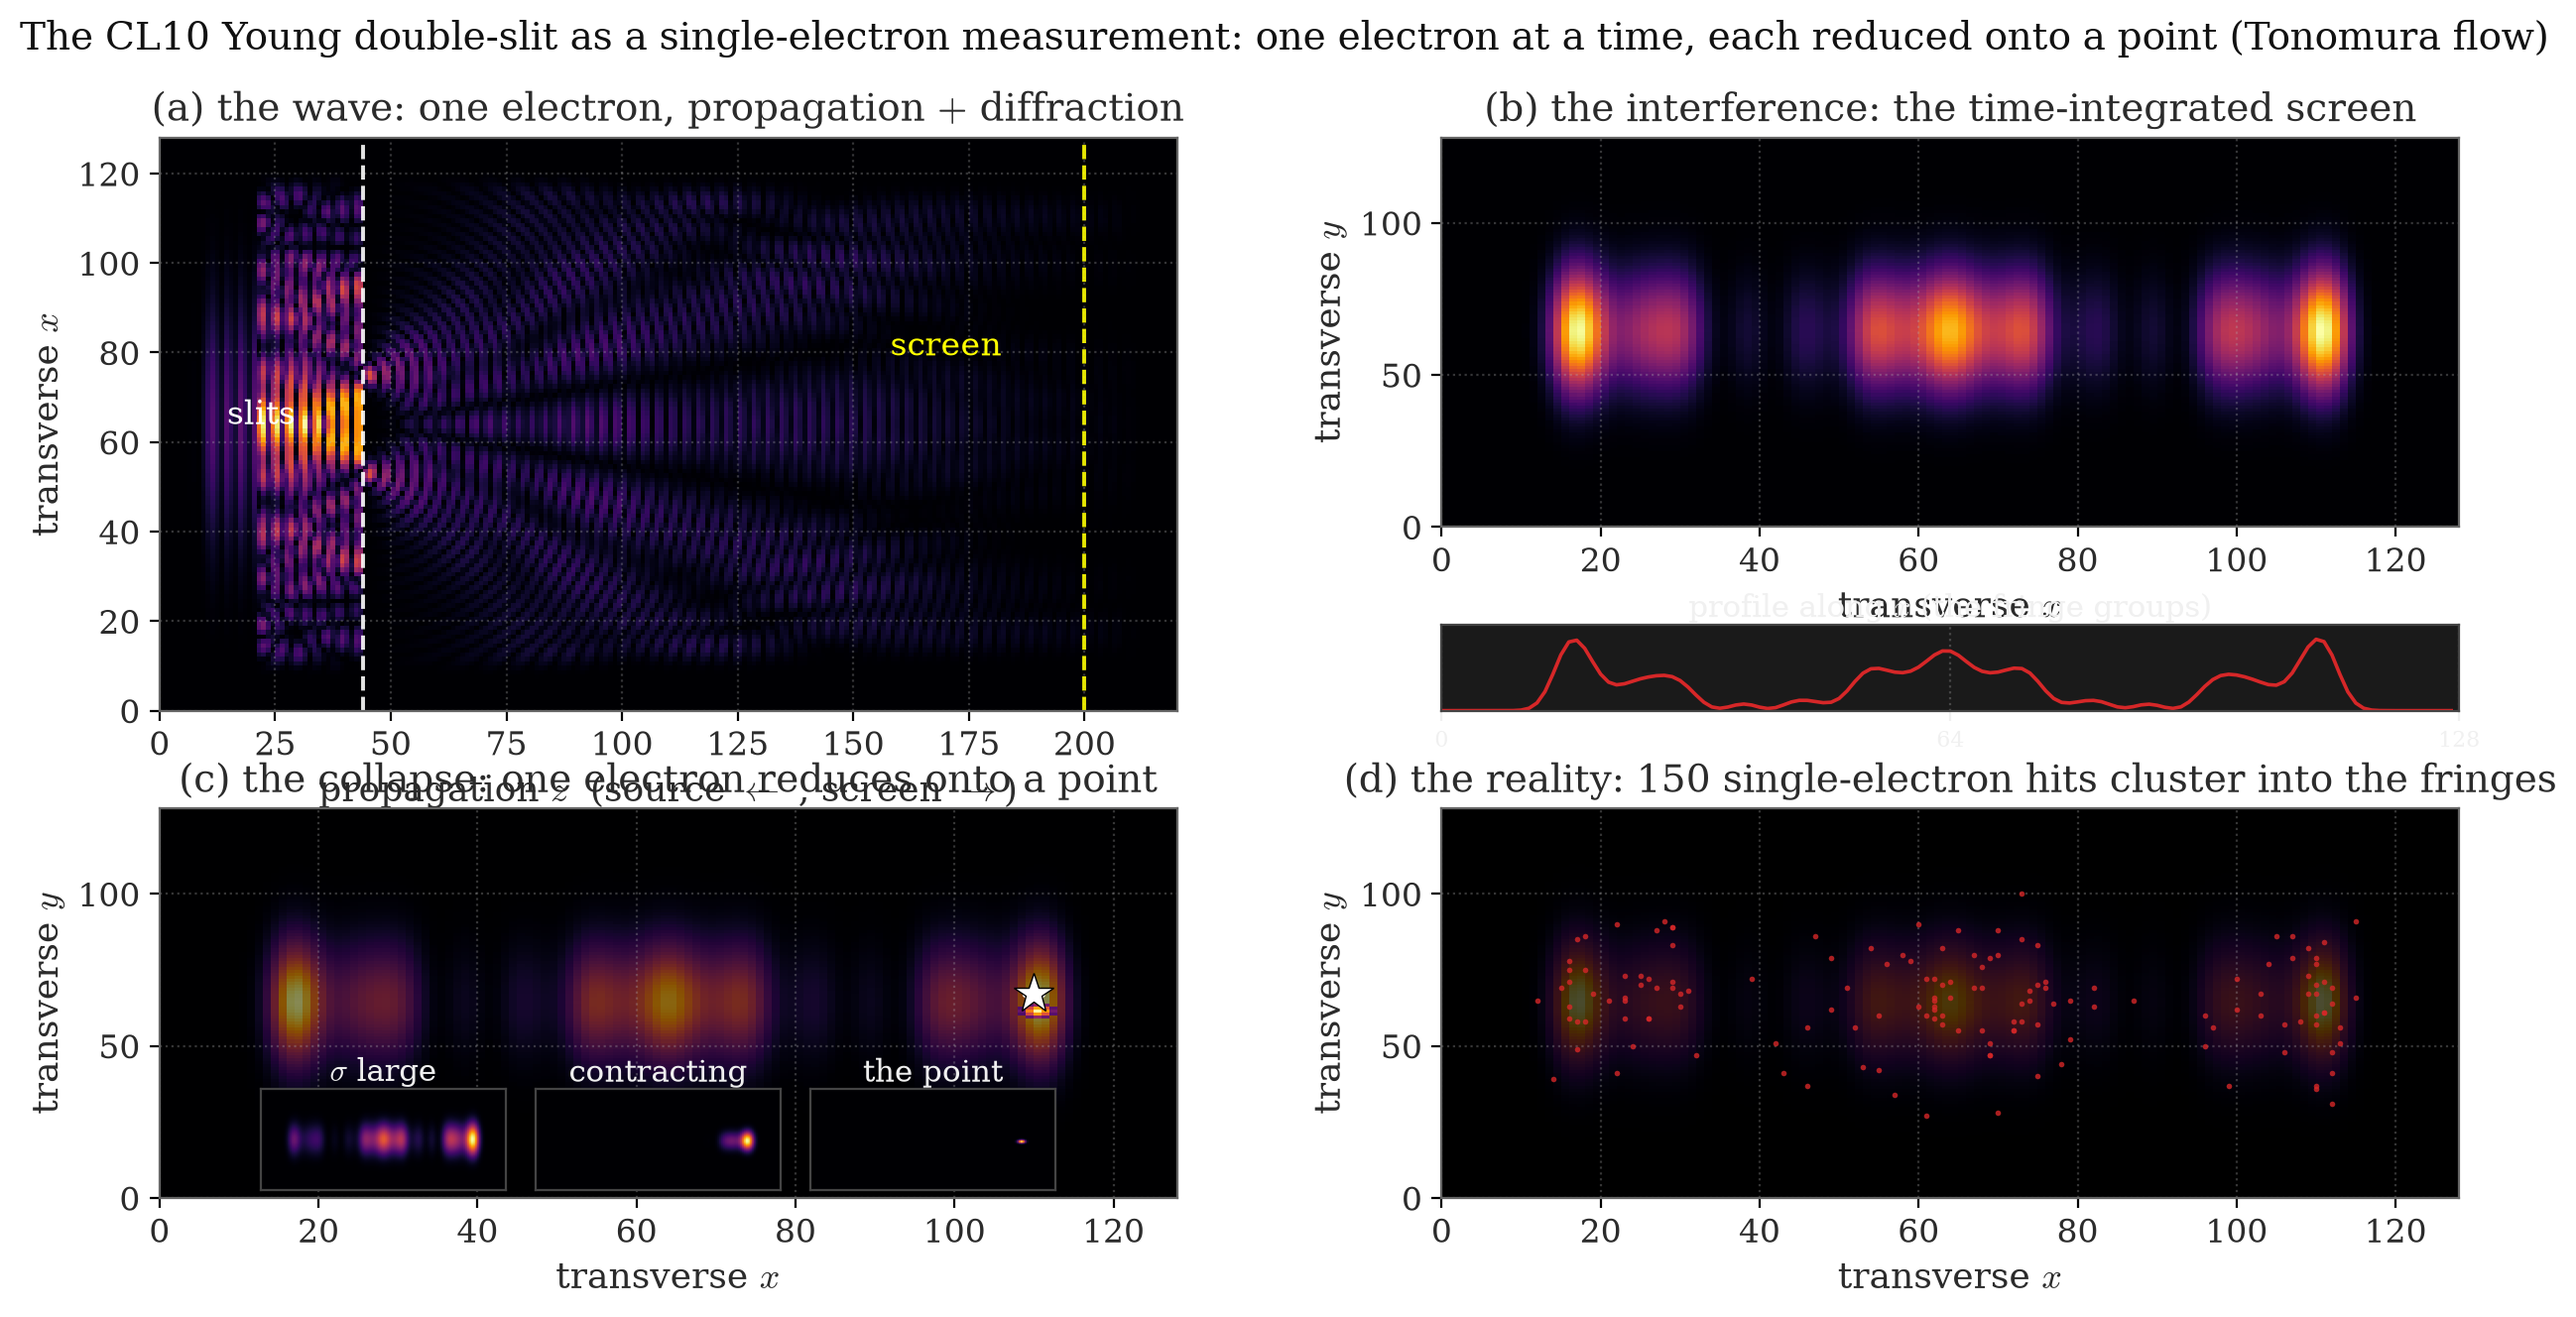
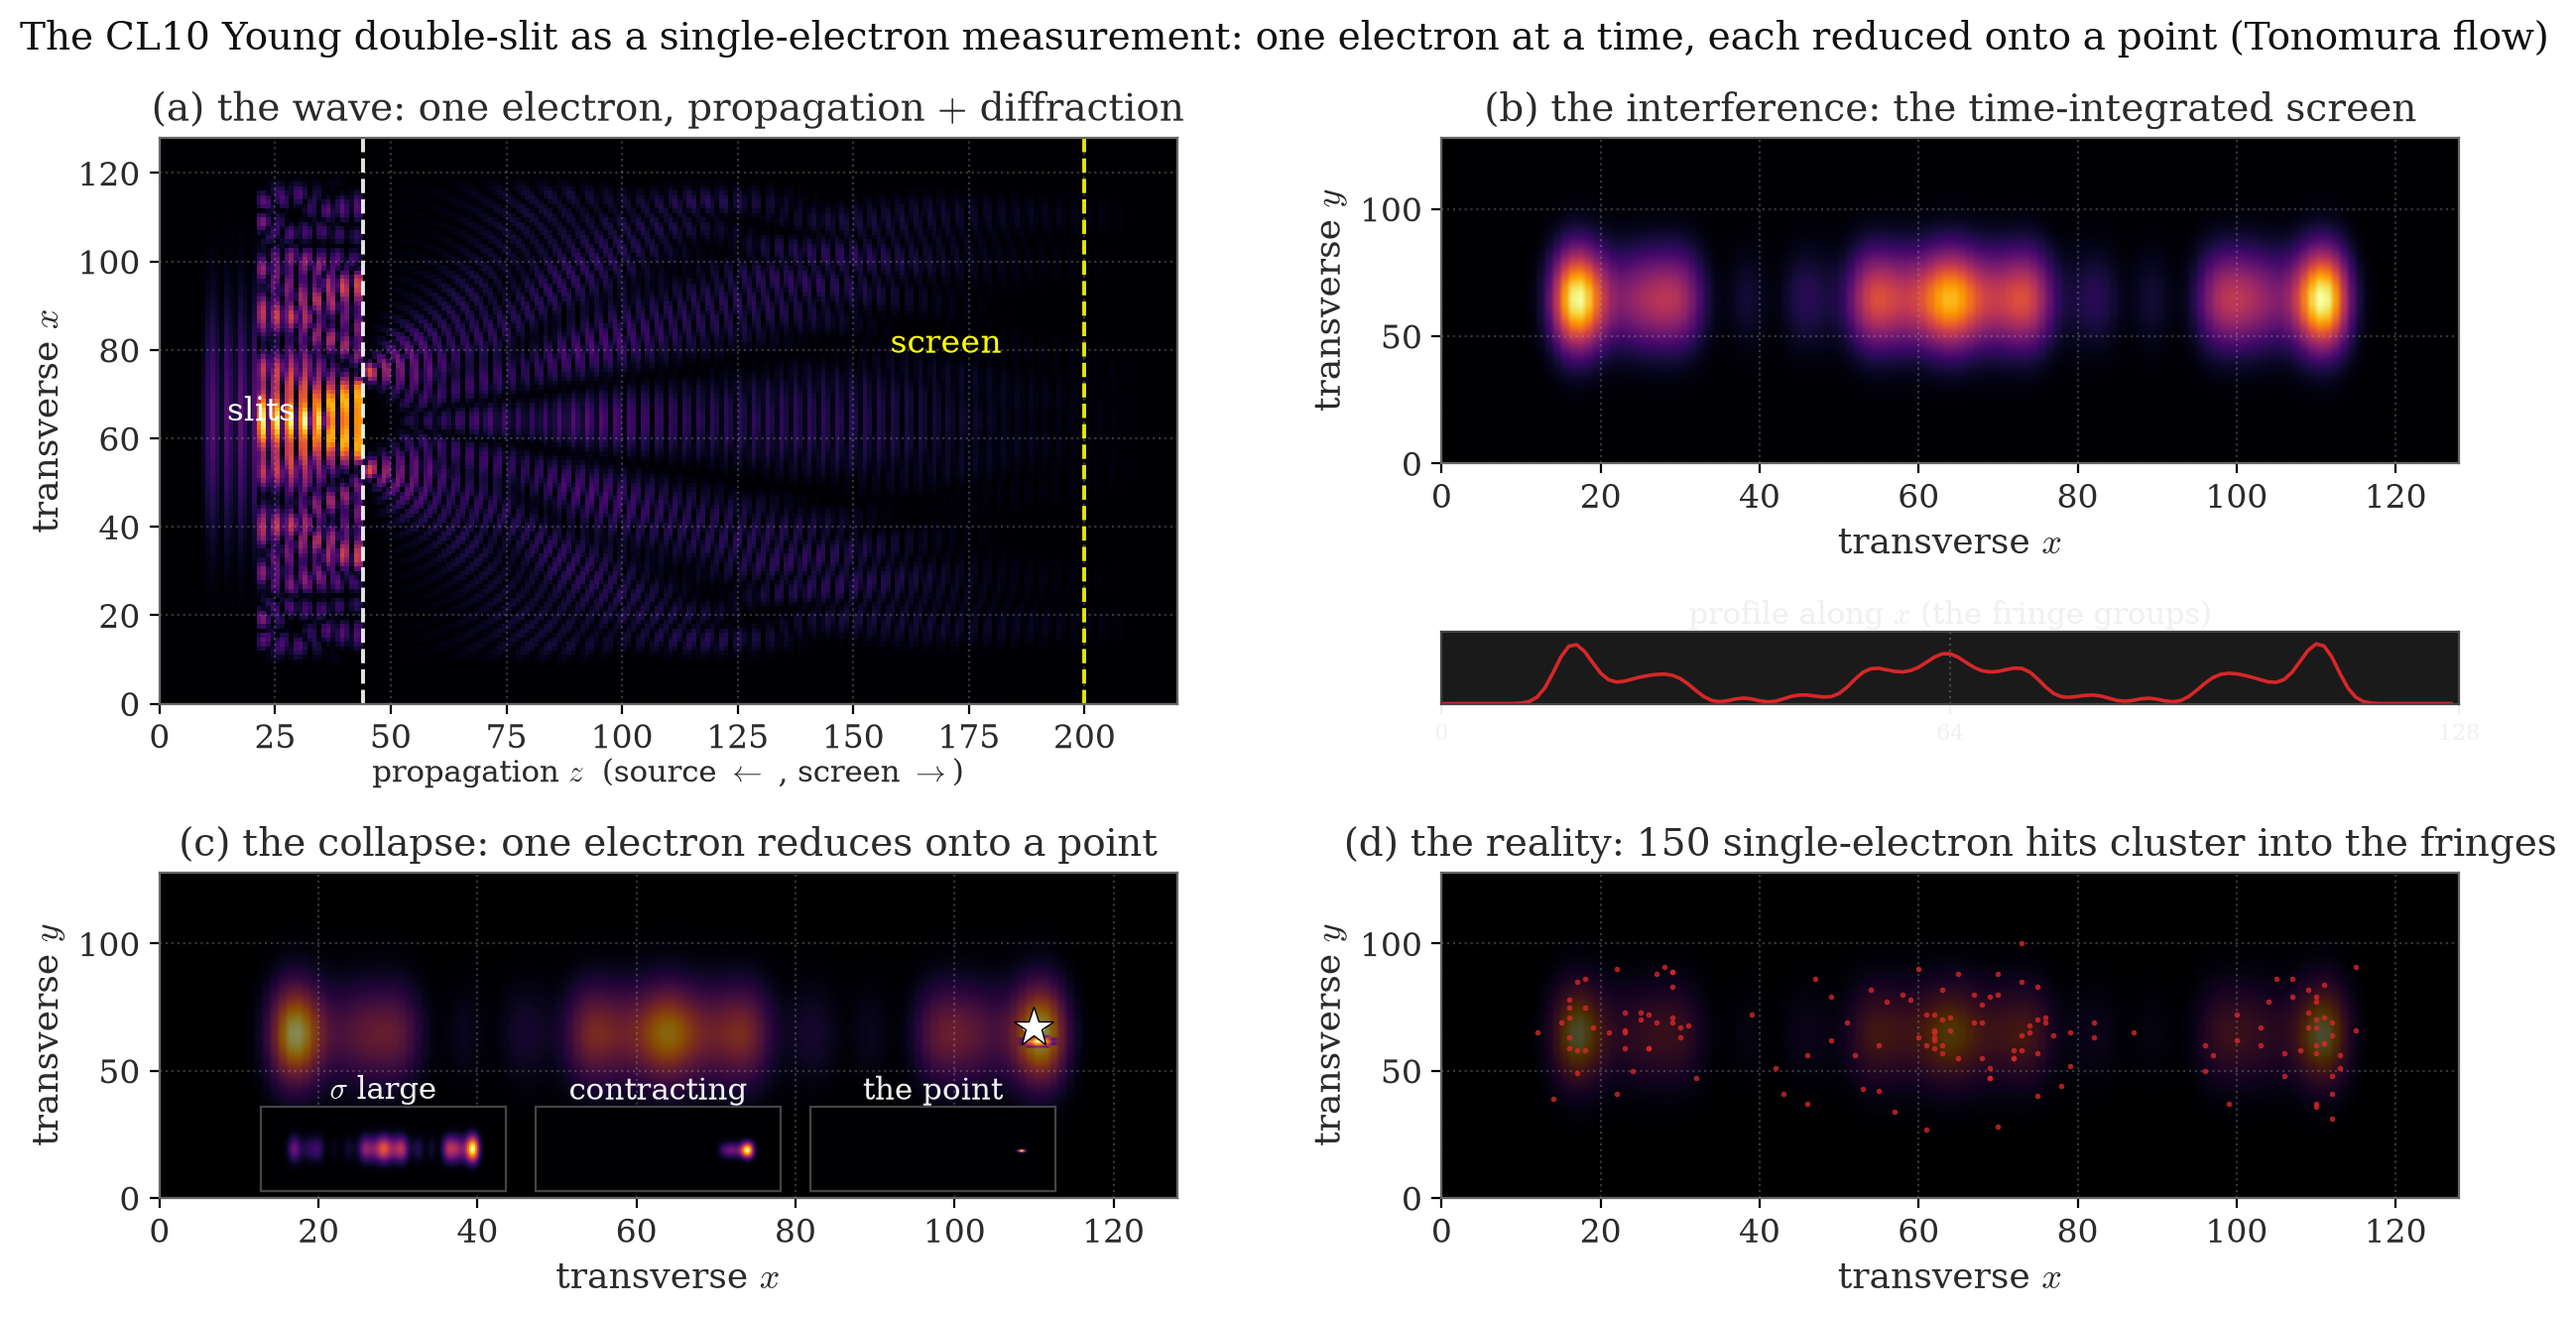
figure layout fixes + the fig13/fig14 zigzag is labelled structure, not noise
- fig1: manual gridspec spacing (hspace 0.70) - panel (a)'s xlabel no longer collides with panel (c)'s title
- fig13: legend moved to the empty mid-band (was hiding the even-length curve); title F_2/F_10 derived from the plotted V203 data (65.7/55.0) - the old 64.4/53.9 were untraceable stale values
- fig14: legend to the empty mid-band; bottom note + paper captions state the branch structure: the even lengths fall on the two period-4 branches n=4k and n=4k+2 (traced phases are 4th roots of unity, V205), each geometric at rho^4=0.9150 per +4 links and 33x apart - the 4k branch crosses 1/(16pi) at n*=208, the 4k+2 branch is still 33x above at that point
- verified in v203_closed_branch_coefficient.json: F(4k)=1.83,1.67,1.53...; F(4k+2)=60.1,55.0,50.4...; branch ratios 0.9150 = rho^4 exactly; odd n max 5.8e-15

diff --git a/make_figures/residuals.py b/make_figures/residuals.py
@@ -177,7 +177,7 @@ def fig14_loop_selection():
     axA.set_title("(a)  the exact odd-$n$ selection rule and the even ratios\n"
                   "     at the root clock, measured to $n = 30$",
                   fontsize=12.5)
-    axA.legend(loc="lower left", fontsize=9.5, framealpha=0.95)
+    axA.legend(loc="center left", fontsize=9.5, framealpha=0.95)
 
     nn = sorted(Fev)
     axB.loglog(nn, [Fev[n] for n in nn], "-", color=C_GUT, lw=1.5)
@@ -196,16 +196,22 @@ def fig14_loop_selection():
                   rf"     the ladder length at the root clock IS $n^* = {nstar}$",
                   fontsize=12.5)
 
+    rho4 = cl["rho_MG"] ** 4
     fig.text(0.03, 0.015,
              f"odd lengths cancel identically (below $4\\times10^{{-15}}$, "
              f"exact selection rule of the root clock); the even ratios stay "
              f"above $1/(16\\pi)$ until $n^* = {nstar}$,\n"
              f"where the closed-loop suppression first crosses the loop "
              f"factor - rung 208 is the ladder length, and the "
-             f"$n = 10$ reading of the reference angle is a compensation, "
-             f"not the crossing.",
+             f"$n = 10$ reading of the reference\n"
+             f"angle is a compensation, not the crossing. The zigzag is "
+             f"structure: the even lengths fall on the two period-4 branches "
+             f"$n = 4k$ and $n = 4k+2$ (clock phases of order 4),\n"
+             f"each geometric at $\\rho^4 = {rho4:.4f}$ per $+4$ links and "
+             f"$33\\times$ apart - the $4k$ branch is the one that crosses "
+             f"at $208$, the $4k+2$ branch is still $33\\times$ above.",
              fontsize=10.5, color="0.25", va="bottom")
-    fig.subplots_adjust(left=0.075, right=0.985, top=0.86, bottom=0.24)
+    fig.subplots_adjust(left=0.075, right=0.985, top=0.86, bottom=0.31)
     save(fig, "fig14_loop_selection.png")
 
 def fig16_w2_protection():

diff --git a/make_figures/dynamics.py b/make_figures/dynamics.py
@@ -123,7 +123,7 @@ def fig1_young():
     # being pasted over that panel's tick labels; panel (a) spans rows 0-1 so it
     # keeps its height.
     gs = fig.add_gridspec(3, 2, height_ratios=[1.0, 0.22, 1.0],
-                          hspace=0.34, wspace=0.26,
+                          hspace=0.70, wspace=0.26,
                           left=0.05, right=0.97, top=0.89, bottom=0.08)
     # (a) the wave: the propagation + double-slit diffraction (x-z slice)
     ax1 = fig.add_subplot(gs[0:2, 0])
@@ -136,7 +136,7 @@ def fig1_young():
     ax1.annotate("screen", xy=(scr_z, Lx * 0.5), xytext=(scr_z - 30, Lx * 0.62),
                  color="yellow", fontsize=12, ha="center")
     ax1.set_xlabel("propagation $z$  (source $\\leftarrow$ , screen $\\rightarrow$)",
-                   color=TXT)
+                   color=TXT, fontsize=11, labelpad=1)
     ax1.set_ylabel("transverse $x$", color=TXT)
     ax1.set_title("(a) the wave: one electron, propagation $+$ diffraction",
                  color=TXT)
@@ -200,7 +200,10 @@ def fig1_young():
     fig.suptitle("The CL10 Young double-slit as a single-electron measurement: "
                  "one electron at a time, each reduced onto a point (Tonomura flow)",
                  fontsize=14, color="#111")
-    fig.tight_layout(rect=[0, 0, 1, 0.95])
+    # the gridspec carries its own spacing (tight_layout would push panel (a)'s
+    # xlabel onto panel (c)'s title); keep the manual geometry.
+    fig.subplots_adjust(left=0.05, right=0.97, top=0.89, bottom=0.08,
+                        hspace=0.70, wspace=0.26)
     save(fig, "fig1_young.png")
 
 def fig12_gravity_3d():

diff --git a/make_figures/couplings.py b/make_figures/couplings.py
@@ -399,9 +399,9 @@ def fig13_closed_loops():
     axA.set_xlabel("closed-loop length $n$ (hops on $n$ distinct links)")
     axA.set_ylabel(r"Cartan-content ratio $F_n = \alpha((MG)^n)/\alpha(G^n)$")
     axA.set_ylim(1e-17, 200)
-    axA.legend(fontsize=10.5, loc="upper right")
+    axA.legend(fontsize=10.5, loc="center right")
     axA.set_title("(a)  the even lengths contribute, the odd cancel:\n"
-                  r"     $F_2 = 64.4$, $F_{10} = 53.9$; the crossing is beyond",
+                  rf"     $F_2 = {Fn[2]:.1f}$, $F_{{10}} = {Fn[10]:.1f}$; the crossing is beyond",
                   fontsize=11.5)
 
     labels = [r"$G$", r"$MG$" + "\n(root clock)",

diff --git a/doc/final_publication.md b/doc/final_publication.md
@@ -554,10 +554,10 @@ against $1/(16\pi) = 0.0199$: **the closed traced-loop functional at the root cl
 (Figs. 13, 14).
 
 ![Closed loops](figures/fig13_closed_loops.png)
-*Closed traced-link loops of length $n$ on $n$ distinct bonds, at the root clock. (a) The Cartan-content ratio $F_n$: every odd length cancels identically, the even ratios cross $1/(16\pi)$ first at $n^* = 208$ with deficit $1.04\%$. (b) The traced hop matrix $MG$ has spectral radius $0.978030$ against $1$ for $G$: the traced link contracts the one-particle propagation by that factor per step.*
+*Closed traced-link loops of length $n$ on $n$ distinct bonds, at the root clock. (a) The Cartan-content ratio $F_n$: every odd length cancels identically, the even ratios cross $1/(16\pi)$ first at $n^* = 208$ with deficit $1.04\%$; the even ratios run on the two period-4 branches of the clock filter, $n = 4k$ and $n = 4k+2$ (the traced phases are fourth roots of unity), each geometric at $\rho^4 = 0.9150$ per $+4$ links and $33\times$ apart — the $4k$ branch is the one that crosses first. (b) The traced hop matrix $MG$ has spectral radius $0.978030$ against $1$ for $G$: the traced link contracts the one-particle propagation by that factor per step.*
 
 ![Loop selection](figures/fig14_loop_selection.png)
-*(a) $F_n$ measured to $n = 30$ at the root clock: the odd lengths vanish identically (the exact odd-$n$ selection rule) and the even ratios stay above $1/(16\pi)$ at these lengths — the crossing is beyond. (b) The even-length ratio to the crossing: the $\rho = 0.978030$ per-step suppression crosses $1/(16\pi)$ at $n^* = 208$ — the ladder length at the root clock *is* the crossing of the closed-loop suppression.*
+*(a) $F_n$ measured to $n = 30$ at the root clock: the odd lengths vanish identically (the exact odd-$n$ selection rule) and the even ratios stay above $1/(16\pi)$ at these lengths — the crossing is beyond; the alternation of the even ratios is the period-4 branch structure, $n = 4k$ versus $n = 4k+2$, $33\times$ apart, each decaying at $\rho^4$ per $+4$ links. (b) The even-length ratio to the crossing: the $\rho = 0.978030$ per-step suppression crosses $1/(16\pi)$ at $n^* = 208$ — the ladder length at the root clock *is* the crossing of the closed-loop suppression; the $4k+2$ branch is still $33\times$ above at that point.*
 
 **The composition law.** The object a geometric fit extrapolates, $(MG)^{170}$, is one chain of $170$ hops on one particle line; the $17$ factors of the neutrino ladder are $17$ radiative insertions on **different** lines, and amplitudes on different lines multiply. Both compositions are exact in the traced adjoint-link formalism. On one line the chain is **not** multiplicative: at the root clock the measured chain value is $F_{170} = 1.54$ against $(F_{10})^{17} = 1.0\times10^{29}$, a ratio $R_{17} = 5.7\times10^{-30}$ — consecutive hops interact through the propagation, so a single chain suppresses far *less* than the product of its pieces (and odd chains cancel identically, Section 9.2). Across legs the factorisation is **exact**: the traced hop is a one-particle operator, $\mathrm{Tr}_L[(P_a \otimes I)(G \otimes G \otimes I_L)] = 45\,(M_a \otimes G)$ verified to $10^{-15}$, and the $10{+}10$-step two-loop object splits into leg blocks to $2\times10^{-15}$. The physical discriminator decides: at the root clock the leg reading runs through the loop ratio at the crossing length, $M_P\,F_{208}^{17} = 0.122$ eV — within a factor $1.2$ of the neutrino rung $M_P(1/16\pi)^{17} = 0.146$ eV — while the chain reading gives $M_PF_{170} = 1.9\times10^{28}$ eV, $28$ orders too high. **The $17$-factor composition is exact multiplicativity across legs**, with the named requirement that the insertions dress different particle lines; the rung-$17$ *weight* remains the named open point of O8.
 
